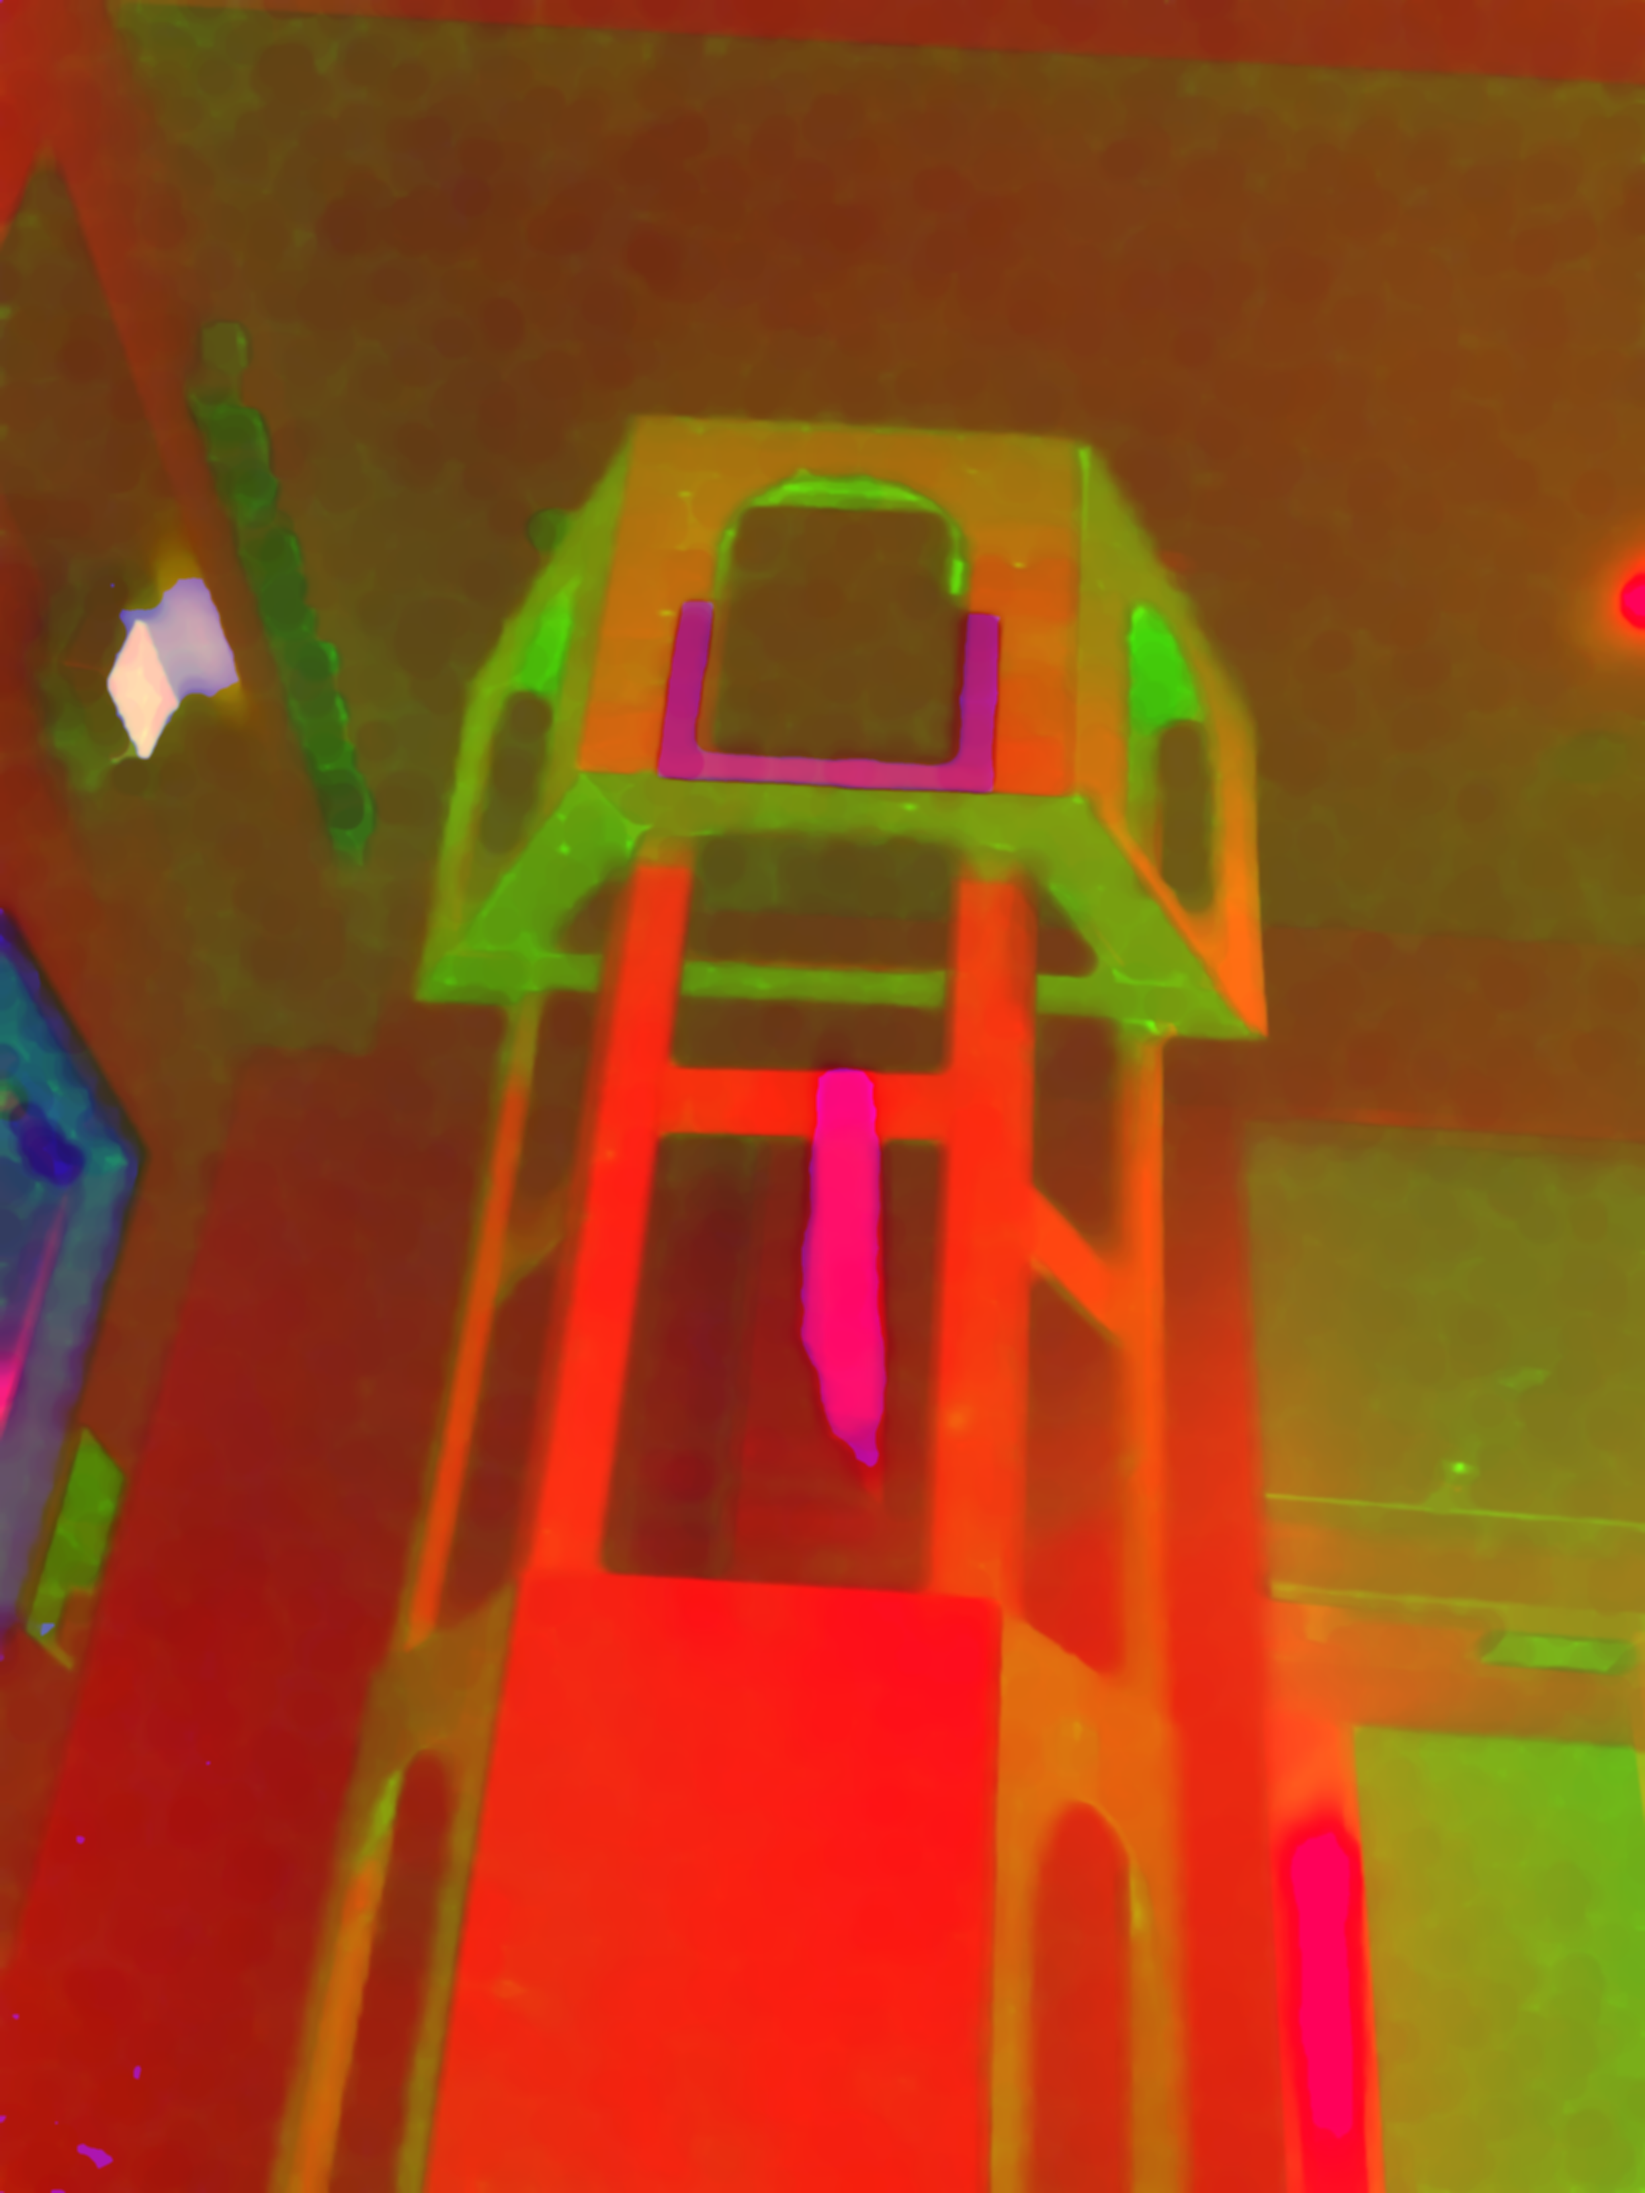
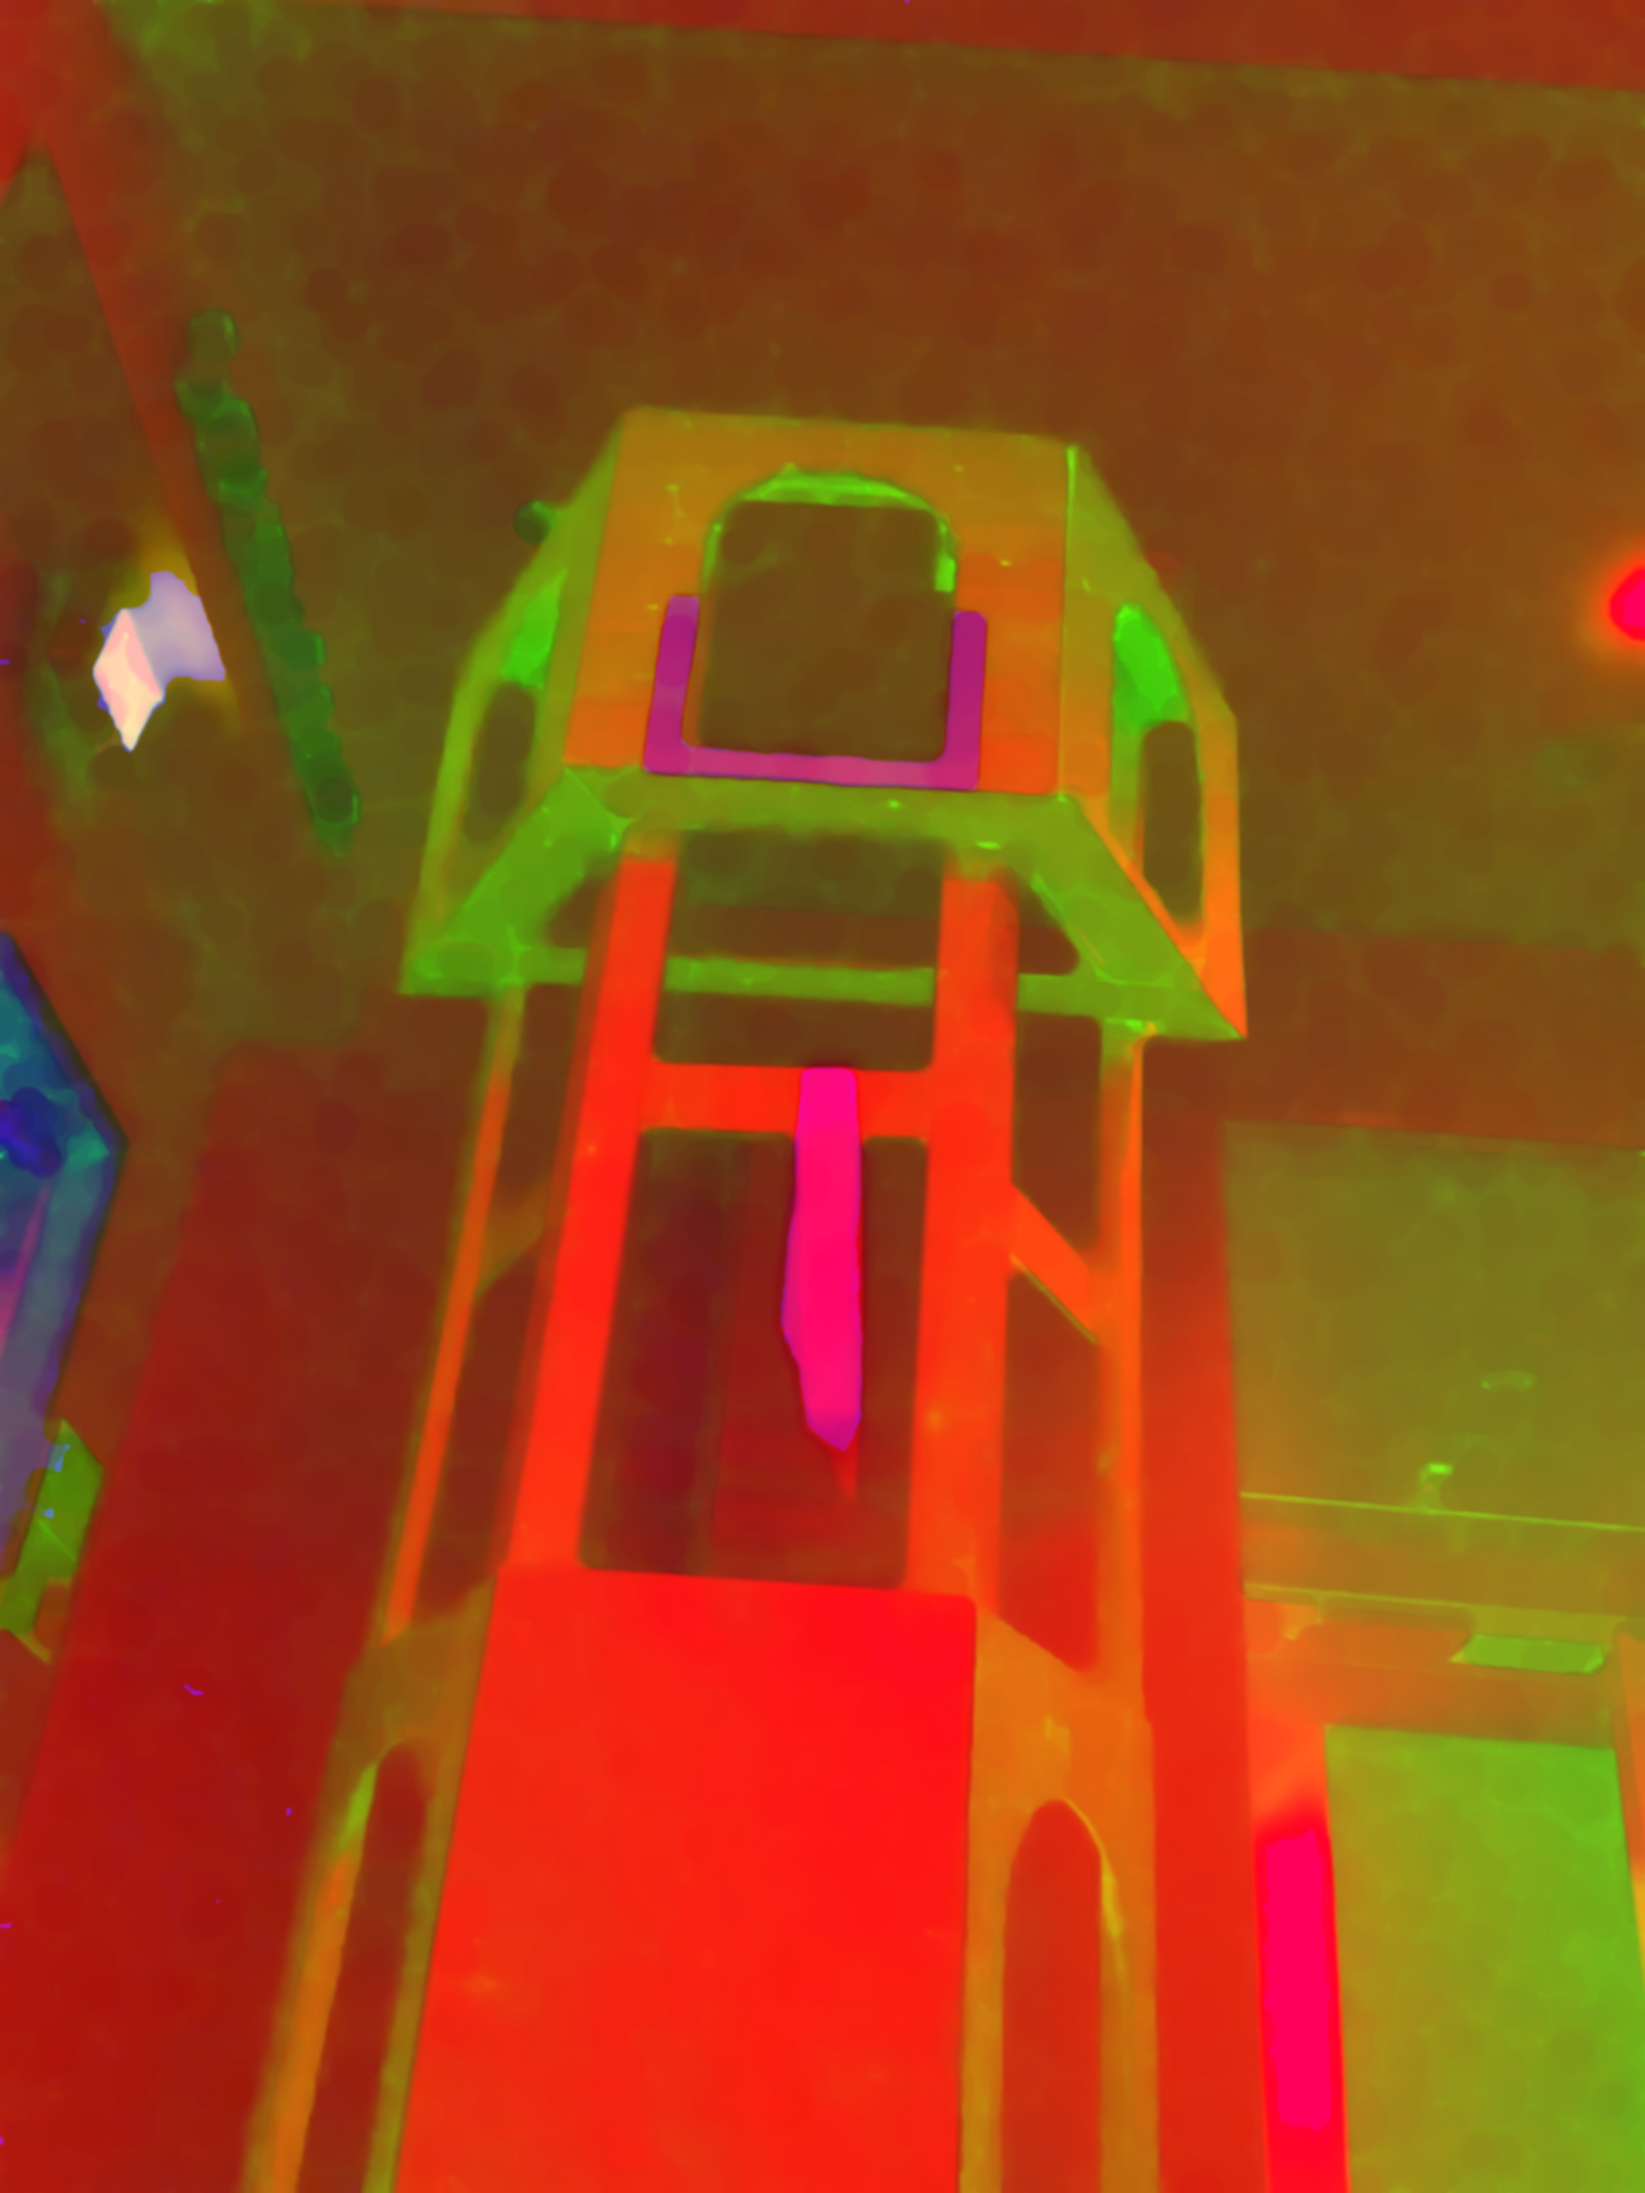
Modifies some distance stuff. Distance tracking still doesn't work

diff --git a/src/Main.java b/src/Main.java
@@ -22,7 +22,7 @@ public class Main {
 		Mat converted = new Mat();
 		Mat colorsCanceled = new Mat();
 		
-		original = Imgcodecs.imread("tower/10ftcenter2.jpg");
+		original = Imgcodecs.imread("tower/8ftcenter.jpg");
 		convertImage(original, converted);
 		Imgcodecs.imwrite("images/converted.png", converted);
 		
@@ -42,6 +42,8 @@ public class Main {
 		
 		List<Rect> rects = findRects(contours);
 		System.out.println(rects.size());
+		System.out.println(rects.get(0).width);
+		System.out.println(findDistance(57.2,rects.get(0).width,6,20));
 		
 		for(int i = 0; i < rects.size(); i++) {
 			Imgcodecs.imwrite("images/submat" + i + ".png", makeSubmats(original, findRects(contours)).get(i));
@@ -151,10 +153,10 @@ public class Main {
 		return width;
 	}
 	
-	public static double findDistance(double horzFOV, double goalWidth) {
-		double realWidth = 20; // inches
-		double imageWidth = 800; // pixels
-		double distance = (realWidth * ((imageWidth/2)/goalWidth)) / Math.tan(Math.toRadians(horzFOV / 2.0));
+	public static double findDistance(double vertFOV, double tapeHeight, double camHeight, double camAngle) {
+		double realHeight = 20; // inches
+		double imageHeight = 2448; // pixels
+		double distance = (realHeight * ((imageHeight/2)/(tapeHeight))) / Math.tan(Math.toRadians((vertFOV / 2.0) + camAngle));
 		return distance;
 	}
 }
